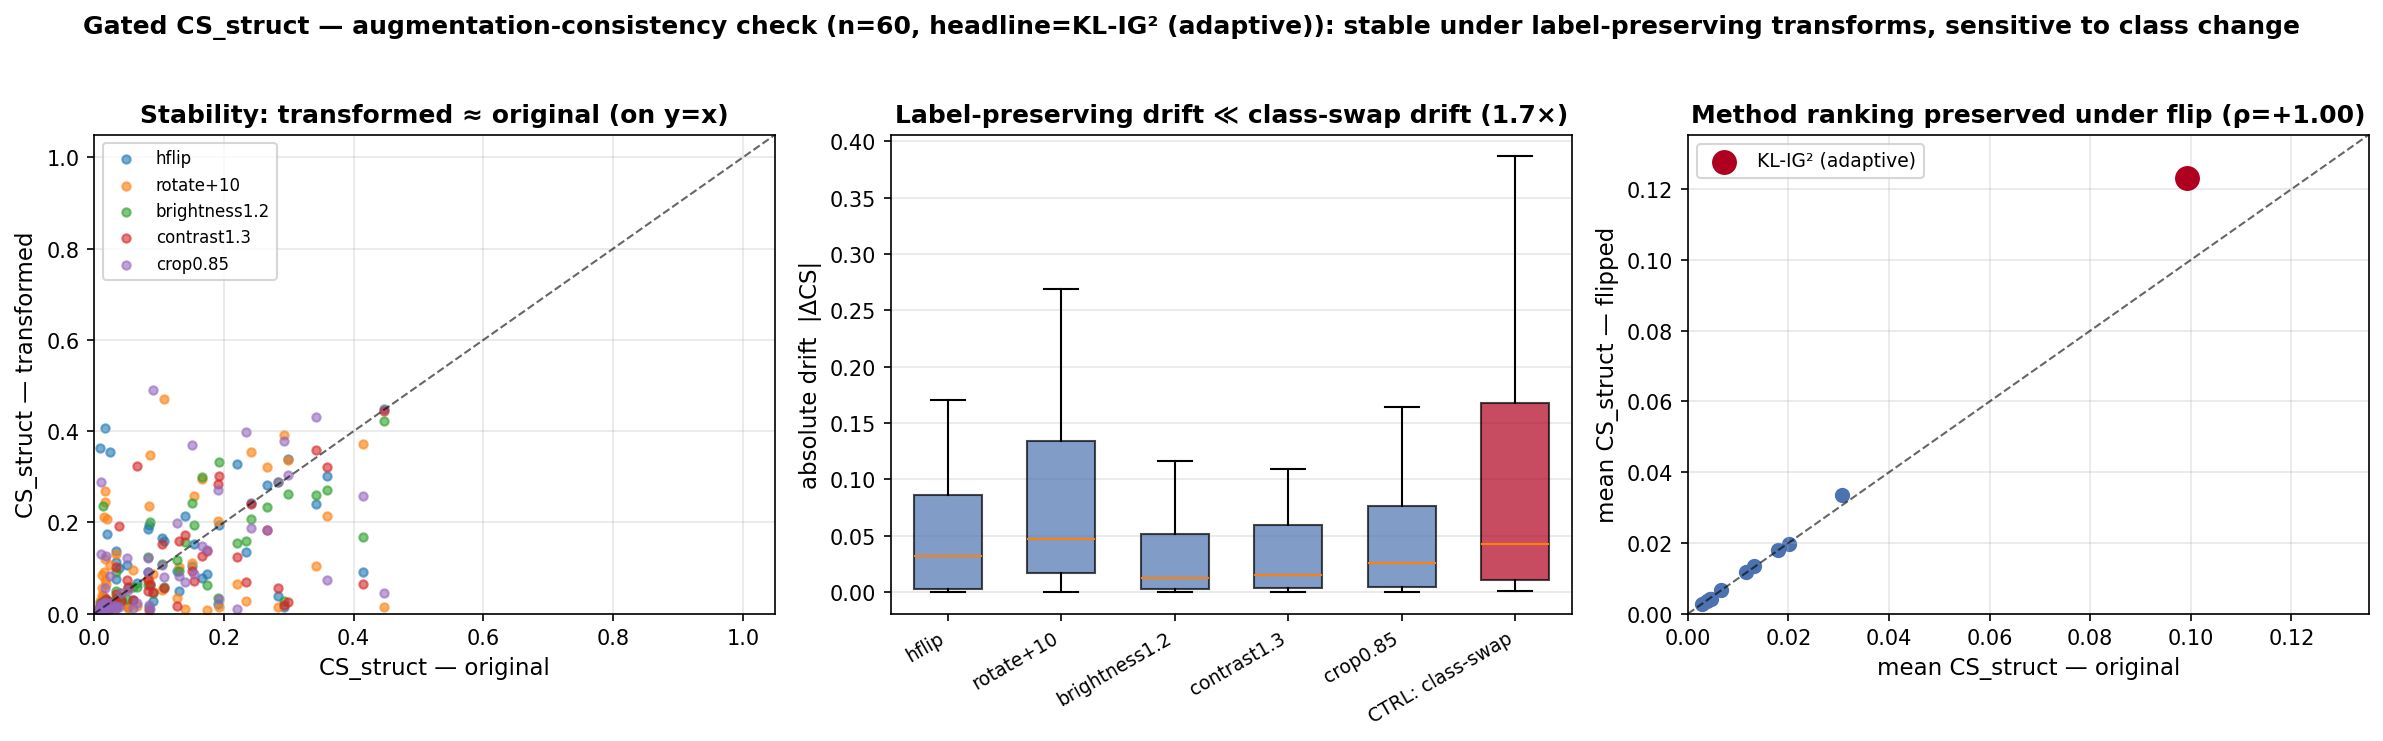
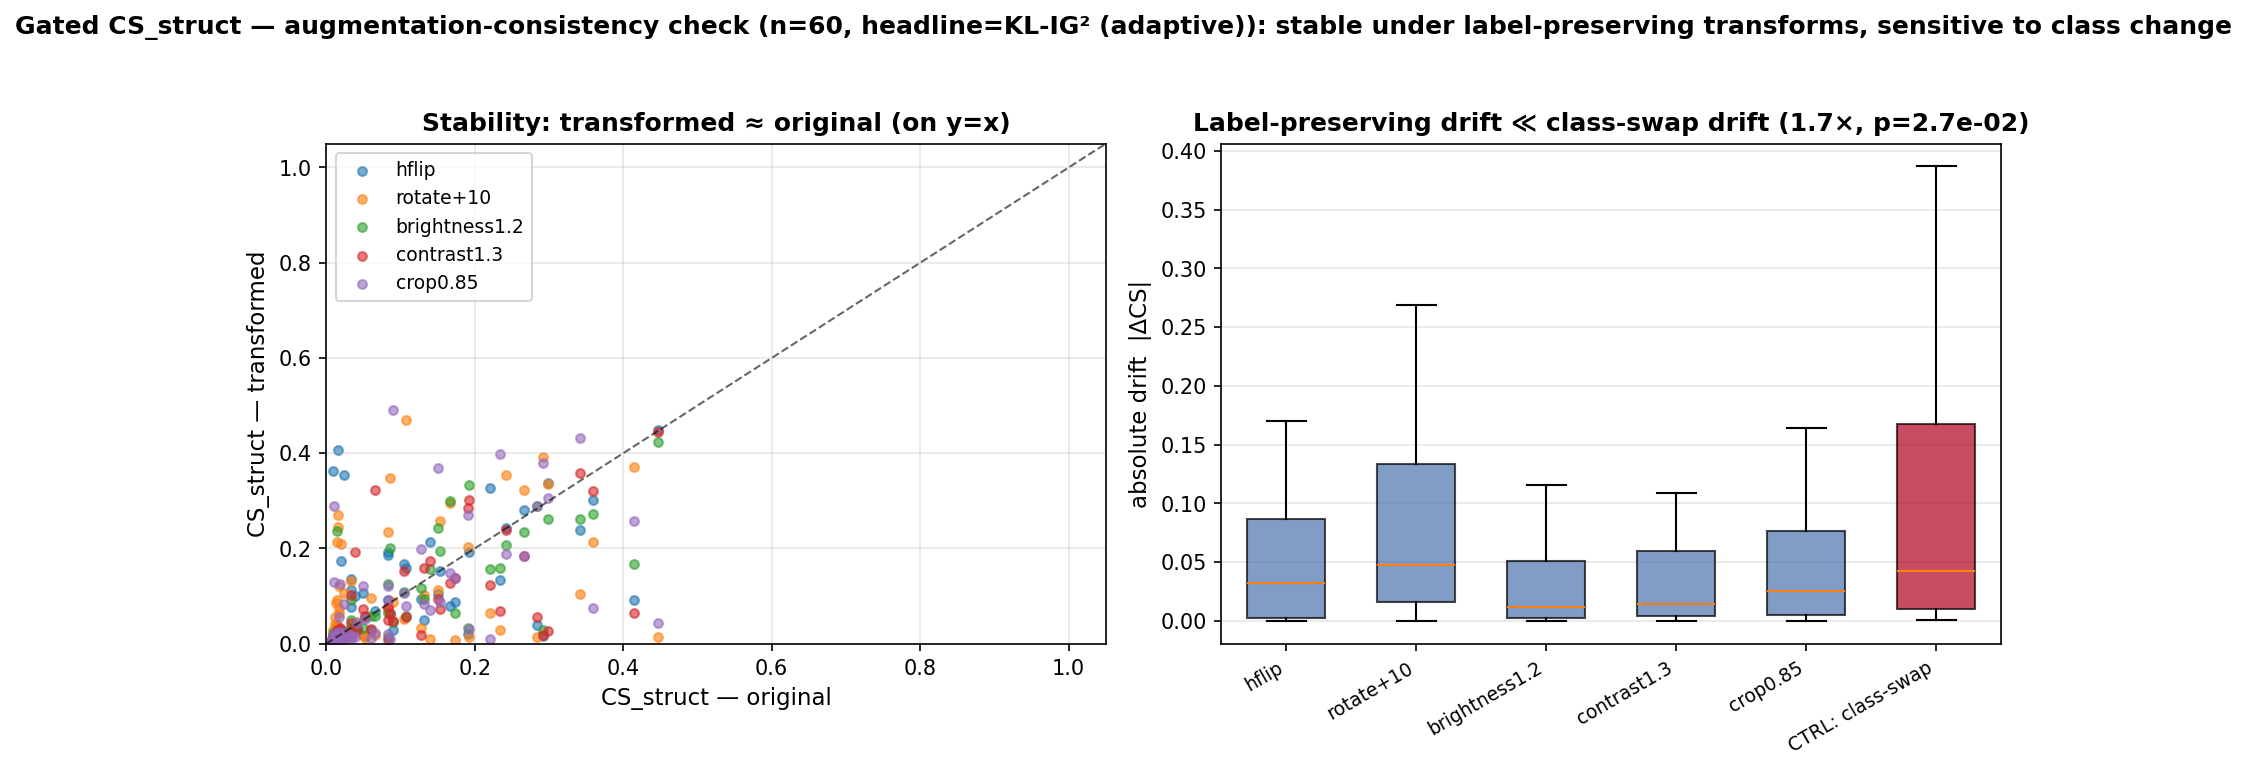
Reduce augment-consistency figure to 2 panels
Drop the method-ranking-under-flip scatter (that result stays in Table 2);
keep before/after stability scatter + label-preserving vs class-swap drift box.

diff --git a/infocube-main/augment_consistency.py b/infocube-main/augment_consistency.py
@@ -197,39 +197,30 @@ print(f'\nmethod-ordering under hflip: Spearman(base, flip) = {rho:+.3f}  | top 
 
 pickle.dump(dict(rows=rows, mb=mb, mf=mf, methods=list(_ALL)), open(OUT/'augment_consistency_summary.pkl','wb'))
 
-# ── figure ──────────────────────────────────────────────────────────────────────────────
+# ── figure (2 panels) ───────────────────────────────────────────────────────────────────
 import matplotlib; matplotlib.use('Agg'); import matplotlib.pyplot as plt
-fig, ax = plt.subplots(1, 3, figsize=(16, 5), facecolor='white')
+fig, ax = plt.subplots(1, 2, figsize=(12, 5.2), facecolor='white')
 # A: before vs after scatter (pooled preserving transforms) — tight to y=x = stable
 cmap = plt.get_cmap('tab10')
 for j, name in enumerate(TRANSFORMS):
     b = cs0; a = np.array([r['transforms'][name]['cs'] for r in rows])
-    ax[0].scatter(b, a, s=16, alpha=0.6, color=cmap(j), label=name)
+    ax[0].scatter(b, a, s=18, alpha=0.6, color=cmap(j), label=name)
 lim = [0, max(cs0.max(), 1.0)*1.05]
 ax[0].plot(lim, lim, 'k--', lw=1, alpha=0.6); ax[0].set_xlim(lim); ax[0].set_ylim(lim)
 ax[0].set_xlabel('CS_struct — original', fontsize=11); ax[0].set_ylabel('CS_struct — transformed', fontsize=11)
 ax[0].set_title('Stability: transformed ≈ original (on y=x)', fontsize=12, fontweight='bold')
-ax[0].legend(fontsize=8, loc='upper left'); ax[0].grid(alpha=0.3)
-# B: relative drift box — preserving (small) vs class-swap control (large)
+ax[0].legend(fontsize=9, loc='upper left'); ax[0].grid(alpha=0.3)
+# B: absolute drift box — preserving (small) vs class-swap control (large)
 keys = list(TRANSFORMS) + ['CTRL: class-swap']
 data = [drift_by[k] for k in keys]
 bp = ax[1].boxplot(data, vert=True, patch_artist=True, showfliers=False, widths=0.6)
 for k, patch in enumerate(bp['boxes']): patch.set_facecolor('#b00020' if keys[k].startswith('CTRL') else '#4c72b0'); patch.set_alpha(0.7)
 ax[1].set_xticklabels(keys, rotation=30, ha='right', fontsize=9)
 ax[1].set_ylabel('absolute drift  |ΔCS|', fontsize=11)
-ax[1].set_title(f'Label-preserving drift ≪ class-swap drift ({ctrl.mean()/(pooled_pres.mean()+EPS):.1f}×)',
-                fontsize=12, fontweight='bold'); ax[1].grid(alpha=0.3, axis='y')
-# C: method ordering under flip — per-method mean base vs flip
-ax[2].scatter(mb, mf, s=40, color='#4c72b0')
-hi = _ALL.index(HEAD) if HEAD in _ALL else int(np.argmax(mb))
-ax[2].scatter(mb[hi], mf[hi], s=120, color='#b00020', zorder=5, label=HEAD)
-lim2 = [0, max(mb.max(), mf.max())*1.1]
-ax[2].plot(lim2, lim2, 'k--', lw=1, alpha=0.6); ax[2].set_xlim(lim2); ax[2].set_ylim(lim2)
-ax[2].set_xlabel('mean CS_struct — original', fontsize=11); ax[2].set_ylabel('mean CS_struct — flipped', fontsize=11)
-ax[2].set_title(f'Method ranking preserved under flip (ρ={rho:+.2f})', fontsize=12, fontweight='bold')
-ax[2].legend(fontsize=9); ax[2].grid(alpha=0.3)
+ax[1].set_title(f'Label-preserving drift ≪ class-swap drift ({ctrl.mean()/(pooled_pres.mean()+EPS):.1f}×, '
+                f'p={pv:.1e})', fontsize=12, fontweight='bold'); ax[1].grid(alpha=0.3, axis='y')
 plt.suptitle(f'Gated CS_struct — augmentation-consistency check (n={n}, headline={HEAD}): '
              'stable under label-preserving transforms, sensitive to class change',
              fontsize=12, fontweight='bold')
-plt.tight_layout(rect=[0,0,1,0.96]); out=OUT/'augment_consistency.png'
+plt.tight_layout(rect=[0,0,1,0.95]); out=OUT/'augment_consistency.png'
 plt.savefig(out, dpi=150, bbox_inches='tight'); plt.close(); print('saved', out)
